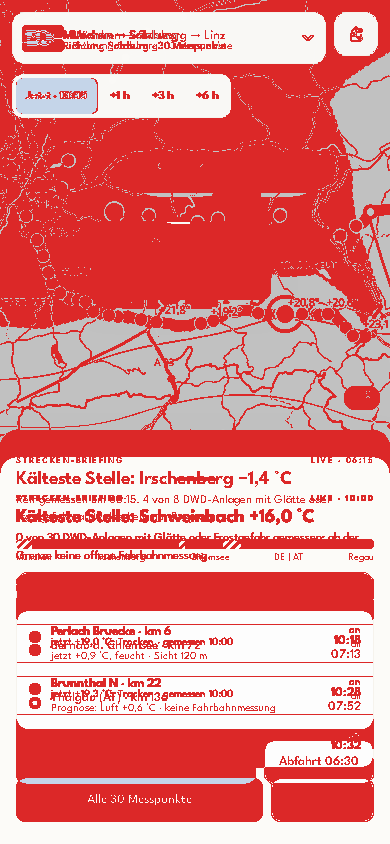
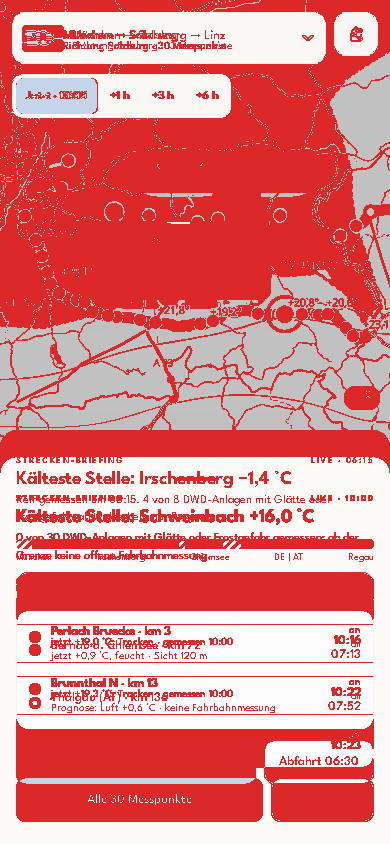
docs(road): shadow run, review fix pass, corrected default-station note, E-AW-16 (AW-3..AW-5)

diff --git a/CLAUDE.md b/CLAUDE.md
@@ -37,7 +37,7 @@ Daten-Repo (307 MiB, kein Platz).
 | **Phase AX — Ausbau nach dem Expertenbericht** (offene Punkte nacheinander; Auftrag 30.09.) | **AX-1…AX-11 gebaut und von Jan committed/gepusht (`a02f2b5`, 30.09.), AX-12 = Messung heute gegen 5e (uncommitted), Gates grün; seit Jans Freigabe 30.09. (Daten-Repo + Jobs) liegen Cron-Vorlage + README (`7115d708`, Leerlauf-Schutz korrigiert `d058317c`) und das Klimagitter (`3869297b`) im Daten-Repo; mit dem Push von `main` baut der Punkt-Cron ab dem nächsten Slot Schema 6, MOSMIX-S und die Stationsebenen (§28)** | `audit/fusion-ausbau.md` (§0 Tabelle je AP, V-AX-1…7, E-AX-1…6). **AX-1** (V-FS-15): die Messungs-Abrufer lieferten nie die nächsten Stationen (BrightSky-Sondenraster, TAWES `slice(0, 200)`, SMN jede k-te) — an 8 Stadtpunkten kam 0 Messung ≤ 5 km an, jetzt 4 (Rest strukturell); `near` in den Adaptern, BrightSky nach WMO-Kennung, Live-Pfad byte-gleich, Browser-Beleg München. **AX-2:** `learnedRoute` (E-FV-3) am Archiv **schlechter** (stationslos T −11 %!, Wind −17 %!) ⇒ Route 1 bleibt; Altersnotizen der Tabellen (V-EX-6, `tableAge.ts`). **AX-3:** T zwischen den nativen Schritten als Anomalie gegen μ_c — Orakel 6-h-Schritte MAE 1,12 → 0,95 K (−15,5 %), 3-h −4,1 %, Td/Böe ohne Gewinn ⇒ nur T, **in der Stufe fs** (E-AX-3). **AX-4:** Bewölkung als Zwei-Atome-Mischung `cloudMix` (Atome logistisch gelernt, `fitAtoms.ts`, Codec **Version 3**): out of fold CRPS +5,7 %* (0–6 h +10,7 %*), MAE −9 %, PIT-Rand 0,28 → 0,195, Atome kalibriert — Tabelle `fit\2026-09-30-ax4\fusion.ax4.json`, Einbau = E-AX-4/5. **AX-5:** Stationswert mit Parametern je Land (`ws\|3\|S\|CH`, Kandidat `stack-cc`, H15 vorab eingefroren) — **H15 GILT:** CH Wind 7–120 h +1,3…+3,7 %*, Böe +3,2…+7,0 %*, nirgends schlechter, die CH-Lücke gegen MOSMIX schließt sich; Tabelle `fit\2026-09-30-ax5\stack.archive.json` = E-AX-7. **AX-6:** ENS-Mittel roh bei 126–336 h gegen Einzellauf T +14/+23 %, Wind +13/+16 %, Böe +10/+12 %; gegen das Mittel zweier Läufe bei T erst ab 246 h; bei 246–336 h gleichauf mit der Klimatologie ⇒ Gewinn vor allem Wind/Böe (E-AX-6, Producer). **AX-7:** Cube-**Schema 6** (61 Ebenen: `t2m/u10/v10/precip_ens` = Member-Mittel aus denselben ENS-Bytes; Leser liest 5 und 6, Übergang mit echtem Schema-5-Chunk geprüft), Client-Option `ensMember` (aus, σ = 1,5·σ_ens set); lokaler Producer-Lauf gegen den echten 00z-Lauf: Ebenen an der Rasterstunde 144, Abstand zum HRES 0,3–1,7 K (§6a.3). **AX-8:** MOSMIX-S als zweites Stationsprodukt `point/stations-s/` (stündlich, Lauf + 39…41 min gemessen, dieselben 3 071 Stationen, alle zehn Größen), Aufbewahrung 6 h, Index `stationsS`, Leser-Option `stationSource` (L bleibt Voreinstellung, `?st=s`), vierter Cron-Job `:50` (20 Stunden, in den t2-Stunden im t2-Job) mit Leerlauf-Schutz bis zum Push; Ende-zu-Ende lokal (§6b.3) = E-AX-8. **AX-9:** Klimagitter `point/static/clima-grid/v1` (DWD CDC GK3 selbst projiziert, SPARTACUS Wert − Anomalie mit exakter Gegenprobe, MeteoSwiss LV95 — Sonne dort relativ, umgerechnet; 208 Chunks 1,87 MiB, 53 % der Zellen), `CubeIo.climaGrid` (`?cg=1`) ersetzt das Tagesmittel T des Priors mit Lapse gegen `elev_src`; Messung an 14 762 Punkt-Monaten: Alpen −28 %, CH −16 %, DE-Flachland +10 %; **beide Prioren ≈ 1,2 K zu kalt (V-AX-10)** ⇒ `climaTrend` (0,45 K/Dekade, set): Gitter 1,57 → **1,22 K** (§6c.3) = E-AX-9. **AX-10:** INCA-Analyse (GeoSphere, 1 km, stündlich, Latenz ≈ 1–1,5 h) als Anker-„Messung“ in AT mit Gewicht 0,6 (set; `CubeObs.weight`, `CubeIo.incaAnchor`, `?inca=1`) — gebaut, ohne Archiv nicht messbar = E-AX-10. **AX-11:** Globalstrahlung, Sonnenscheindauer, Sichtweite als drei Ebenen hinter den 61 Cube-Ebenen im Stationsprodukt (MOSMIX `Rad1h`/`SunD1`/`VV`, S und L; Leser unverändert, das Manifest nennt die Liste; München 342 W/m², 60 min, 51 km). **V-AX-12:** der erste Leerlauf-Schutz traf den Teilstring `mosmix_stationskatalog` — der Lauf 14:03 UTC baute MOSMIX-L einmal neu (byte-gleich), behoben mit dem Marker `POINT_STATIONS_SOURCE`. **AX-12 (Messung heute gegen Fit 5e, Archiv 16.–28.09., 365 513 Zeilen, 13 Ausgabetage, 389 Stationspunkte, §6g):** Modus S (Punkt = Station) MAE **22 von 36 Zellen signifikant besser, 0 schlechter** (T +17…+29 %*, Td +10…+22 %*, Wind +20…+27 %*, Böe +16…+28 %*, Bewölkung +11…+18 %*, PIT-Rand 0,62–0,75 → 0,28–0,33; Niederschlag unverändert); gegen MOSMIX T +3…+14 %*, Td +13…+19 %*, Wind/Böe 0–6 h +6/+10 %* sonst gleichauf, **CH Wind/Böe −2…−10 %! (E-AX-7 offen)**; stationslos (Modus L) 15 besser / 2 schlechter — Wind 0–6 h −1,2 %!, 126–240 h −4,1 %!, 0–120 h unter der Lernstufe allein (V-AX-13, E-AX-11); V-AX-4 behoben (Archiv-Schema 3 lesbar, `--slotsFrom`). **Schaltkandidaten am Archiv (§6g.5):** Wolkenatome (AX-4) Bewölkung CRPS +6…+10 %*, PIT-Rand 0,3 → 0,2, K7 bestanden ⇒ BESSER; Landesparameter (E-AX-7) Wind/Böe +2…+3 %*, CH gegen MOSMIX von −2…−10 %! auf −0,6…−1,1 % (n.s.), Td −0,1…−1,0 % (V-AX-15 ⇒ ohne Td-Landeseinträge); zusammen gegen 5e 23 / 0 / 13 — **mit Jans Go am 30.09. 18:25 UTC eingespielt (Daten-Repo `1aaec969`, gepurgt, CDN geprüft) = „buscosun Fusion 6"** (Bezeichnung, s. Sprache & Konventionen). **E-AX-11 (§6h, Wind ohne Station):** zwei Motor-Optionen gebaut (aus) und am Archiv gemessen — der Klimatologie-Schritt für Wind/Böe ist SCHLECHTER (Böe 0–120 h −3,5…−5,7 %!, DE-Wind bis −11 %!, aber AT/CH +3…+15 %* und 126–240 h +4,7 %* ⇒ V-AX-17: Defizit im gelernten Windmember, Fit-Seite), der über die Distanz gedämpfte Wind-Anker (`anchorWindKm: 10`) ist GLEICHSTAND (nirgends schlechter, 0–6 h Böe +0,6 %*, Wind +0,5 %) ⇒ Empfehlung in die Stufe fs mit dem nächsten Push (= buscosun Fusion 7), E-AX-13 später. Gates: `verify:pv-cube` **398/398** (Blöcke 30–38; (35) an echten Schema-5/6-Chunks des Klons, Leerlauf), `verify:point-data` **1018/1018** (vier Cron-Jobs, Regeln A–F nachgerechnet), `verify:point-client` **171/171**, `verify:fusion-fit` **125/125** (16i), `verify:pv-fusion` **235/235** (neu gezählt nach E-AX-11 — die frühere 249 war die Build-Zahl, BW-1), Build 249/249, `npm run budget` grün (totalJs 1508,6 / **1510** mit Notiz angehoben, eagerJs 108,6 unverändert), typecheck 0. Fallen: Archiv seit 29.09. Schema 3 (V-AX-4, `--slotsTo`), Truth-Sentinel −32768, HCV1-Header ohne `dtype`. **01.10. (uncommitted, §6i/§6j):** „buscosun Fusion 7“ (= 6 + `anchorWindKm: 10` + Klimagitter) gegen Fusion 6 am Archiv 16.–30.09. (405 810 Zeilen) — nach vorab eingefrorener Regel BESSER (4/0), aber nur Wind/Böe 0–6 h ohne Station +0,5/+0,6 %*; das Klimagitter bewegt 0 Zellen (V-AX-19 ⇒ nicht einschalten); Archiv-**Schema 4** gebaut (`stationsS` MOSMIX-S-Reihe, `incaAnalysis`), wirksam nach dem Push vor 23:10 UTC; der Slot 30.09. ist der erste mit Schema-6-ENS-Ebenen ⇒ `ensMember` messbar ab ≈ 06.–14.10. Gates `verify:fusion-fit` 125/125, `verify:punktarchiv` 126/126; Jans Gates §30. **E-AX-14 umgesetzt (Jan 01.10.: „ja mach das, nenn es buscosun Fusion 7“): `anchorWindKm: 10` ist Teil der Stufe fs (`FUSION7_ANCHOR_WIND_KM`, `cubeSource.ts`), Verifier (29) erweitert — Definition s. Sprache & Konventionen; Commit/Push = Jans Gate.** **02.10. (uncommitted, §6k–§6l):** Fusion 7 ist deployt (`751bee2`); erster Schema-4-Slot da, INCA nur an 40/84 AT-Punkten — GeoSphere-Rate-Limit 5/s (V-AX-20) ⇒ Sammler bündelt (`fetchIncaAnalysisObsBatch`, live 84/84); Scorer mit Niederschlagszellen (Brier/Reliability/POD-FAR); **„buscosun Fusion 8" = 7 + nachkalibrierte Regenwahrscheinlichkeit: GLEICHSTAND (0/0 von 24, K12/K13 rot) ⇒ nicht eingeschaltet**, Option `precipCal` gebaut und aus; V-AX-23 Radar-Stundenmittel (POD 0,37 → 0,49) als nächster Kandidat — **gebaut (Option `nowcastHourMean`, aus; Extractor F8r, Scorer-Zellen Radarstunden) und gemessen (§6l.4/§6l.5, Regel vorab): GLEICHSTAND 1 / 0 von 4 primär (L Brier +11 %*, S +9 % p 0,055, DE POD 0,33 → 0,52), K11/K14/K16 grün ⇒ nicht eingeschaltet, Wiederholung ≥ 30 Tage; V-AX-24: der Live-Pfad holt je Stunde einen Frame ⇒ E-AX-16 (Spiegel-Produkt gegen Client-Frames) — **umgesetzt (§6m, Jan 02.10. „sofort, über buscosun-data"): der Derive schreibt je RV-Slot ein RGB-Summenbild `m<lead>.png` je voller Stunde (exakt: am Live-Slot |Δ| 0 an 626 Vergleichen, Frames byte-gleich, Browser-Dekoder byte-gleich), der Leser holt es hinter `nowcastHourMean`/`?hm=1` (aus) und der Motor nimmt es vorgemittelt (`hourMean.mirror`); Daten-Repo unverändert, wirksam nach Jans Push + nächstem Spiegel-Job. Karte auf allen Slots bis 01.10. (15 Ausgabetage, Zwischenstand, nicht die Wiederholung): nach §6l.4 BESSER 2 / 0 von 4 primär (S Brier +9,8 %*, L +11,8 %*), Kontext 2 / 0, K11/K14 grün, DE POD 0,33 → 0,52 — ein Regentag mehr hob p 0,055 auf 0,021 ⇒ **E-AX-17 entschieden (Jan 02.10. 22:30 UTC): eingeschaltet, Stand = „buscosun Fusion 8" (`FUSION8_NOWCAST_HOUR_MEAN`, Browser liest das Produkt standardmäßig, `?hm=0` = Fusion 7; bis zum ersten Spiegel-Job mit `m<lead>.png` rechnet der Client exakt Fusion 7).** Gates `verify:fusion-fit` 131/131, `verify:pv-cube` 415/415 (Blöcke 40/41), `verify:radar-repack` 55/55, `verify:point-data` 1022/1022, `verify:punktarchiv` 127/127, totalJs 1 517,5 / 1 518; Jans Gates §32. |
 | **Phase KF — Konfidenz-Score von buscosun Fusion 6** (Jan 30.09. abends: „zeigt tendenziell immer sehr geringe an") | **Diagnose fertig; E-KF-2…4 von Jan freigegeben und umgesetzt (uncommitted, §8), Gates grün; offen E-KF-1/5, Bezeichnung des neuen Stands (§29)** | `audit/fusion-konfidenz.md` (§0 Kurzfassung, V-KF-1…8, E-KF-1…5; Belege `fusion-konfidenz/cdn-probe.md`, `monotonie.md`). Beobachtung bestätigt: am Archiv (7 Ausgabetage 16.–28.09., 389 Punkte, Kette der Stufe fs mit den Fusion-6-Tabellen, ≈ 172 000 Zeilen je Größe) T-Score im Median 36–40 % an Tag 1–2, 32 % Tag 3–5, **0 %** ab Tag 6; 99–100 % aller Stunden unter „solide" (0,7); Bewölkung **immer 0**. Der Score ordnet den Fehler trotzdem (T-Dezile monoton, CRPS 1,34 → 0,52 K, ρ −0,32) — er ist falsch skaliert: **V-KF-1** Einigkeit bei σ-Art `learned` rechnet 1 − σ_div²/σ_learned² (`parts.div` bleibt, σ wird ersetzt, seit FL-AP5) ⇒ 13 % der T/Td-Stunden Einigkeit 0; **V-KF-2** Bewölkungs-Schärfe aus der Mischungs-σ (33–83 % gegen σ_clima 34) ≡ 0; **V-KF-3** Lage-Abschläge deckeln dauerhaft (AT 48 %, CH 59 % der Stunden) und sind gegen den Fehler unkorreliert (ρ +0,02); **V-KF-4** Produkt dreier Faktoren (fehlerfreie Vorhersage ⇒ ≈ 0,5); **V-KF-5** Schwellen 0,9/0,7/0,5 aus der Dashboard-Vorlage, nie an die Verteilung gebunden — der AP9-Schritt „Dezile gegen CRPS" fehlte seit AP6. Bester Fehlerprädiktor ist die Schärfe allein (ρ T −0,44, Td −0,55, Böe −0,40); Einigkeit misst nur bei der Bewölkung (−0,34 … −0,55). Vorschlag: Score als kalibrierte Schärfe je Größe, Einigkeit nur wo sie misst, Lage als Hinweis statt Faktor, Wörter aus gemessenen Fehler-Quintilen (E-KF-1/3); vorab minimal V-KF-1/2 beheben (E-KF-2). Skript `conf-monotonie.mjs` (≈ 2 min, nur lesend) = Anfang von V-KF-7. **Umgesetzt (§8):** E-KF-2 `MemberSigma.raw` (Einigkeit gegen die PAP-6-σ) + `cloudMixSharpness`/`ConfidenceInput.spread` (Bewölkung: größte Atommasse) — nachgemessen: Einigkeit = 0 von 13 % auf 0 %, Bewölkung Median-Score 0 → 20–23 %, ρ −0,26 → −0,48, Dezile 5 → 0 Verletzungen; T/Td unverändert gut, Wind trennt kaum (V-KF-10). E-KF-3 Modul `fusion/confidenceClasses.ts` (importfrei; fünf Wörter aus Score-Perzentilen P20/40/60/80 je Größe am Archiv nach E-KF-2, `classes.json`, Provenienz `archive`, T 15/29/38/46 %, typischer Fehler je Klasse 1,75 → 0,81 K), gelesen von Dashboard-Regeln, Panel-Legende, Bandbreite-Tab. E-KF-4 Kachel „‹Wort› · typisch ±x °C" (Index im Tooltip), Zeitraumkopf und Tageskarten mit Wort. Gates: `verify:dashboard` 80/80, `verify:pv-cube` 397/398 (35 = Klon trägt nur Schema-6-Chunks, V-KF-9, unabhängig), `verify:pv-fusion` 235/235, `verify:point-client` 171/171, Build 249/249, totalJs 1512,7 / **1514**, eagerJs 108,6; Browser München: „mäßig · typisch ±1,0 °C", Konsole sauber. Der Stand ist damit nicht mehr „buscosun Fusion 6" (Kette in `confidence` geändert) — Bezeichnung = Jans Gate. |
 | **Phase RK + NL — Ruckler der Karte, Niederschlag lädt lange** (Jans Befunde 01.10.) | **RK-1 und NL-1/NL-2 umgesetzt (uncommitted), Gates grün; Commit/Push = Jans Gate (§31)** | `audit/karte-ruckler.md`, `audit/niederschlag-ladezeit.md`. **RK:** jede Kartenansicht stand 2–7 s nach dem Aufruf **2,0–2,25 s** still (CPU 4×: 7,7 s) — `buildDemImage` rechnete das Höhenbild der Temperatur (7,2 Mio. Abtastungen) in einem Hauptthread-Block; neu `src/sources/demGrid.ts` (Kachel-Koordinaten je Spalte/Zeile vorab, Array-Index, Zeitscheiben 8 ms) + `loadElevationTiles` (nur ergänzt, Rasterfusion wortgleich zu HEAD), Höhenbild **byte-gleich** (auch auf 90 echten Kacheln), größte Frame-Lücke danach 33–50 ms (CPU 4×: 100 ms). **NL:** 3 von 11 kalten Aufrufen ≥ 10 s (bis > 30 s): Router-Frühstart ohne Frist, Bild-Weg alles-oder-nichts gegen kaltes jsDelivr (Hänger, 403), Rückfall = HDF5-Tar 9,6 MB; neu Ausweichweg `raw.githubusercontent.com` je Radarbild in `fetchImgRes` (Hedge 2,5 s, 403/5xx/Netz, 404 bleibt 404, Schalter `?radarraw=0`, Muster V-FI-5) + Frist auch für vorgestartete Abrufe; nachher 0 von 11 ≥ 10 s. E-NL-1 (voriger Slot zuerst) = nein. Gates: `verify:dem-build` **21/21**, `verify:radar-fallback` **22/22** (je rot vor der Umsetzung), `verify:radar-runs` 55/55, `verify:radar-repack` 48/48, `verify:layer-erstbild` 38/38, `verify:share` 528/528, `verify:repack` 347/347, `verify:dashboard` 80/80, typecheck 0, Build 249/249, Budget grün (eagerJs 108,6 / 108,7, totalJs 1 514,3 / **1 516**). Offen: E-RK-2 (Höhenbild vorrechnen), E-NL-2 (Warm-up im Spiegel), V-RK-1/2, V-NL-1…5, Real-Device |
-| **Phase AW — Autobahnwetter** (Fahrbahn gemessen DE, AT/CH später als Prognose; Auftrag 03.10.) | **AW-0…AW-3 auf `main` (`a2bb63a`, `691113c`), Daten-Repo `cb20f86`/`bef7411`/`e9ef1f0`, Schattenbetrieb im Radar-Spiegel; AW-4/AW-5 auf Zweig `feat/autobahnwetter` hinter `?road=1` (Flag aus), Gates grün bis auf `verify:share` SH6 = Edge-Bündel (Jans Gate E-AW-14); AW-6 nicht begonnen** | `audit/autobahnwetter.md` (§0 Kurzfassung, §2 Spike + Gate A, §3 Vertrag, §4 Producer/Spiegel/Wächter, §5 Schattenbetrieb, §6 Seite + Abweichungen, V-AW-1…15, E-AW-1…15). DWD-Glättemeldeanlagen (SWIS) als **BUFR mit eigenem Decoder** (`src/road/swisBufr.ts`, drei Layouts, gegen eccodes 78 670 Werte/0 Abweichungen), Vertrag `src/road/roadContract.ts` (Ablage `road/v1/`: `obs/` 3 h, `h24/<Reihe>/<Slot>` mit Klassenspalte `k`, `quarantine/` 24 h, `status.json`, `state.json`, `static/stations.json` + `corridors.json` aus BKG DLM250), harte Regeln ab Tag 1 (inkl. **E-AW-11** Eis-Code nur ≤ +3 °C mit gültiger Fahrbahn), statistische im Beobachtungsmodus bis ≥ 14 Tage; Slot-Sperre (≥ 20 Reihen, ≤ 10 % verworfen, Rundweg). Replay 48 h: hart verworfen p50 1,5 % / max 2,9 %. Ingest = Produkt des Radar-Spiegels (E-AW-1, `scripts/road/road-mirror.mjs`, HEAD auf den erwarteten Slot-Pfad, Frist Slot + 12 min, 24 h nachholen), Wächter R1–R4 in `health-manifests.mjs`. Seite: Kachel 11, Route `/autobahnwetter` (noindex bis Gate C), Deck nach `reference/autobahnwetter-*.dc.html` (Pixel-Diff Desktop 32,8 % / Mobil 50,1 %, jede Abweichung benannt). Gates: `verify:road-decode` 15/15, `verify:road-contract` 59/59, `verify:road-derive` 27/27, `verify:road-ui` 26/26, `verify:health` 33/33, Build 252/252, Budget eagerJs 108,9 / **109,0**, totalJs 1 538,9 / **1 540**. **Jans Gates `MANUELLE-SCHRITTE.md` §33:** E-AW-14 Edge-Bündel, Gate B nach 7 Tagen Schatten, Kalibrierung ≥ 14 Tage, Gate C Flag an, E-AW-13/15, Archiv-Freigabe AW-6 |
+| **Phase AW — Autobahnwetter** (Fahrbahn gemessen DE, AT/CH später als Prognose; Auftrag 03.10.) | **AW-0…AW-3 auf `main` (`a2bb63a`, `691113c`, `2687a61`, `45f12dd`, `ef6d7af`), Daten-Repo `cb20f86`/`bef7411`/`e9ef1f0`/`0e801f2`, Schattenbetrieb im Radar-Spiegel seit 03.10. 12:47 UTC (erster Live-Slot nach 235 s im Daten-Repo); AW-4/AW-5 auf Zweig `feat/autobahnwetter` hinter `?road=1` (Flag aus), Gates grün bis auf `verify:share` SH6 = Edge-Bündel (Jans Gate E-AW-14); Gesamtprüfung: 9 wichtige Befunde behoben; AW-6 nicht begonnen** | `audit/autobahnwetter.md` (§0 Kurzfassung, §2 Spike + Gate A, §3 Vertrag, §4 Producer/Spiegel/Wächter, §5 Schattenbetrieb, §6 Seite + Abweichungen, V-AW-1…18, E-AW-1…16). DWD-Glättemeldeanlagen (SWIS) als **BUFR mit eigenem Decoder** (`src/road/swisBufr.ts`, drei Layouts, gegen eccodes 78 670 Werte/0 Abweichungen), Vertrag `src/road/roadContract.ts` (Ablage `road/v1/`: `obs/` 3 h, `h24/<Reihe>/<Slot>` mit Klassenspalte `k`, `quarantine/` 24 h, `status.json`, `state.json`, `static/stations.json` + `corridors.json` aus BKG DLM250), harte Regeln ab Tag 1 (inkl. **E-AW-11** Eis-Code nur ≤ +3 °C mit gültiger Fahrbahn), statistische im Beobachtungsmodus bis ≥ 14 Tage; Slot-Sperre (≥ 20 Reihen, ≤ 10 % verworfen, Rundweg). Replay 48 h: hart verworfen p50 1,5 % / max 2,9 %. Ingest = Produkt des Radar-Spiegels (E-AW-1, `scripts/road/road-mirror.mjs`, HEAD auf den erwarteten Slot-Pfad, Frist Slot + 12 min, 24 h nachholen), Wächter R1–R4 in `health-manifests.mjs`. Seite: Kachel 11, Route `/autobahnwetter` (noindex bis Gate C), Deck nach `reference/autobahnwetter-*.dc.html` (Pixel-Diff Desktop 33,2 % / Mobil 50,1 %, jede Abweichung benannt). Gates: `verify:road-decode` 15/15, `verify:road-contract` 64/64, `verify:road-derive` 31/31, `verify:road-ui` 36/36, `verify:health` 38/38, Build 252/252, Budget eagerJs 108,9 / **109,0**, totalJs 1 539,3 / **1 540**. Nebenbefund: `health.yml` seit September bei jedem Lauf rot (`latest-grib.json`, E-AW-16). **Jans Gates `MANUELLE-SCHRITTE.md` §33:** E-AW-14 Edge-Bündel, E-AW-16 Wächter, Gate B nach 7 Tagen Schatten, Kalibrierung ≥ 14 Tage, Gate C Flag an, E-AW-13/15, Archiv-Freigabe AW-6 |
 
 **Jans Gates (`MANUELLE-SCHRITTE.md` §15/§16):** Push von `buscosun-web/main` mit AP1 + PA2 + AP12a + **PA3 +
 E-F-11/12** als Commit 1 **vor 23:10 UTC** (der Archiv-Cron klont `main` täglich 23:10 UTC; der Punkt-Cron fährt danach
@@ -219,7 +219,7 @@ Rückzüge mit Jans Freigabe): Feuerwetter/`fireSpread`-Rasterfläche, `fireWind
 |---|---|
 | `audit/fusion-konfidenz.md` (+ `fusion-konfidenz/`) | **KF:** Konfidenz-Score von buscosun Fusion 6 — Formel, Sonde am CDN, Score-Dezile gegen CRPS am Archiv (Monotonie), V-KF-1…8, E-KF-1…5 |
 | `audit/geosphere-v2.md` | **GS:** GeoSphere `nwp-v1` → `nwp-v2` (C-LAEF 1 km) im Live-Pfad und in der Rasterfusion — Zuordnung der Größen, Quell-Tag `claef`, Schalter `?nwp=v1`, E-GS-1…3, V-GS-1…3 |
-| `audit/autobahnwetter.md` (+ `autobahnwetter/`) | **AW:** Autobahnwetter — Spike (SWIS-BUFR, Codetabelle, Ankunft, Replay der Regeln), Vertrag `road/v1`, Producer im Radar-Spiegel, Wächter, Korridore DLM250, Seite hinter `?road=1` mit Pixel-Diff gegen die Vorlage, E-AW-1…15, V-AW-1…15 |
+| `audit/autobahnwetter.md` (+ `autobahnwetter/`) | **AW:** Autobahnwetter — Spike (SWIS-BUFR, Codetabelle, Ankunft, Replay der Regeln), Vertrag `road/v1`, Producer im Radar-Spiegel, Wächter, Korridore DLM250, Seite hinter `?road=1` mit Pixel-Diff gegen die Vorlage, E-AW-1…16, V-AW-1…18, Gesamtprüfung §10 |
 | `audit/fusion-expertenbericht-2026-09-29.md` | **EX:** Prüfung des Expertenberichts vom 29.09. (21 Vorschläge, Fristen), Cron-Gate und Terminregister, Radar RV aus ODIM-HDF5, Scorer-Korrekturen, Messung Windfamilie am Stationswert, V-EX-1…13, E-EX-1…8 |
 | `audit/dashboard.md` | **DB:** Wetter-Dashboard neben der Wetterkarte — Inventar der Vorlagen, Parameterliste P01–P88, Abdeckungsmatrix (Fusion / `buscosun-data` / buscosun-web / nicht verfügbar), Architektur (URL-Zustand, Lazy-Chunk, Kartenpause), Vorlagen-Lücken, E-DB-1…20, V-DB-1…15; §10 Umsetzung mit Pixel-Diff (`dashboard/pixel/`), Zuständen ohne Vorlage (`dashboard/states/`), Latenz und Gates |
 | `audit/fusion-stationswert.md` (+ `fusion-stationswert/`) | **FS:** Stationswert gegen MOSMIX — Diagnose der Kette (Gewichte, doppelte Korrektur, doppelte Schrumpfung), eingefrorene Behauptungen D1/D2/H9–H14/E1–E4, Archiv-Karten Modus S und L, vier Motor-Optionen, V-FS-1…11, E-FS-1…6 |

diff --git a/MANUELLE-SCHRITTE.md b/MANUELLE-SCHRITTE.md
@@ -1283,30 +1283,35 @@ Auftrag Jan 03.10. (Kickoff AW-0…AW-5, AW-6 nicht). Befunde, Belege und Messwe
 
 **Stand:**
 - **Auf `main` von buscosun-web (gepusht, für Nutzer unsichtbar):** `a2bb63a` Datenlinie (Decoder, Vertrag, Ableitung, Spiegel-Haken,
-  Katalog, Korridor-Bauer, README-Vorlage, drei Verifier) und `691113c` Klassenspalte im 24-h-Ring + Exportform (E-AW-6, nur vorbereitet).
+  Katalog, Korridor-Bauer, README-Vorlage, drei Verifier), `691113c` Klassenspalte im 24-h-Ring + Exportform (E-AW-6, nur vorbereitet),
+  `2687a61` Wächter R1–R4, `45f12dd` + `ef6d7af` Fixes der Gesamtprüfung (DWD-Zeitlimits im Spiegel, Status über die Job-Naht, Wächter
+  R2/R3/R5, Korridor-Achsen ohne Schleifen) — **wirksam im Spiegel ab dem nächsten Jobstart (≈ 18:35 UTC)**.
 - **Im Daten-Repo (gepusht nach Protokoll, nie force):** `cb20f86` README-Abschnitt „Straßenwetter — road/", `scripts/radar-mirror.mjs`
-  mit drei Haken, `road/v1/static/stations.json` + `corridors.json`; `bef7411` und `e9ef1f0` Korridor-Titel. jsDelivr für die geänderten
-  `road/`-Dateien gepurgt. Workflows unverändert.
+  mit drei Haken, `road/v1/static/stations.json` + `corridors.json`; `bef7411` und `e9ef1f0` Korridor-Titel, `0e801f2` bereinigte
+  Korridor-Achsen (A 8 161,3 → 128,7 km). jsDelivr für die geänderten `road/`-Dateien gepurgt. Workflows unverändert. Nach dem
+  Force-Push der Kartenlinie (13:07 UTC) geprüft: alles noch da.
 - **Schattenbetrieb:** der Radar-Spiegel klont `main` von buscosun-web bei jedem Jobstart und schreibt seither je 15-min-Slot `road/v1/`
   (Belege der ersten Slots: Audit §5). Keine Seite liest die Daten ohne `?road=1`.
-- **Zweig `feat/autobahnwetter` (nicht auf `main`):** AW-4 (Kachel, Route, Rail, ⌘K, Aliase) und AW-5 (Seite) hinter `?road=1`, Wächter-Prüfung
-  R1–R4 — siehe (a).
+- **Zweig `feat/autobahnwetter` (nicht auf `main`, gepusht):** AW-4 (Kachel, Route, Rail, ⌘K, Aliase) und AW-5 (Seite) hinter `?road=1`
+  samt Fixes der Gesamtprüfung — siehe (a).
 
 **Deine Gates:**
 - **(a) E-AW-14 — Edge-Bündel `og-meta`:** `git apply audit/autobahnwetter/og-meta-bundle.patch` oder gleichwertig `npm run edge:share` auf dem
   Zweig (nur der neue Routeneintrag im erzeugten
   `netlify/edge-shared/shareParser.js`; `og-meta` läuft nur auf den neun teilbaren Pfaden ⇒ keine Laufzeitwirkung). Danach `verify:share`
   528/528 und der Zweig kann nach `main` (Flag aus, unsichtbar). Ohne (a) bleibt der Zweig liegen, weil die CI `verify:share` fährt.
-- **(b) Wächter:** mit dem Merge prüft `health.yml` stündlich `road/v1/status.json` (Lebenszeichen ≤ 45 min, freigegebener Slot ≤ 3 h) und
-  mailt bei Rot wie bei den Warm-Manifesten. Wer im Schattenbetrieb keine Mails will: in `.github/workflows/health.yml` beim Schritt
-  „Warm-Manifeste in Produktion prüfen" unter `env:` die Zeile `ROAD_HEALTH: '0'` ergänzen (Workflow-Datei = dein Gate, nicht angefasst).
+- **(b) E-AW-16 — Wächter:** `health.yml` prüft seit `2687a61` stündlich auch das Straßenwetter (R1–R5). **Aber:** der Workflow ist seit
+  September bei **jedem** Lauf rot, weil `latest-grib.json` seit dem Rückzug der Warm-Crons nicht mehr fortgeschrieben wird (H2/H3,
+  ≈ 700 h alt) — so meldet er keinen echten Ausfall. Vorschlag: die H-Prüfungen für `latest-grib.json` entfernen oder auf den Index-Weg
+  umstellen (Workflow-/Wächter-Änderung, dein Ja). Straßenteil abschalten, falls gewünscht: `ROAD_HEALTH: '0'` unter `env:` des Schritts.
 - **(c) Gate B nach 7 Tagen Schatten (≈ 10.10.):** Anteil freigegebener Slots, Ankunft gegen Frist, Bilanz je Regel aus `status.json`/`quarantine/`,
   Stichproben V-AW-5/6, Push-Last (V-AW-10), Radar ohne Rückschritt (Spiegel-Takt). Vorlage: Audit §5.
 - **(d) Kalibrierung nach ≥ 14 Tagen (≈ 17.10.):** Startwerte der Beobachtungsregeln (`jump`, `neighbours`, `roadAir`, `catalog`, `cube`) aus
   der Quarantäne; entscheiden, welche hart werden.
 - **(e) Gate C — Flag an:** `ROAD_LIVE = true` in `src/road/roadFlag.ts`, Sitemap + die 20 Autobahn-Unterseiten (V-AW-8), E-AW-15 Vorschaukarte.
   Vorher Real-Device (V-AW-13): Handy mit `?road=1`, Karte, Blatt, Auswahl.
-- **(f) E-AW-13:** Voreingestellte Messstelle ohne kritische Messung — kälteste gemessene Fahrbahn (Vorschlag) oder schwerste Klasse (heute).
+- **(f) E-AW-13:** Voreingestellte Messstelle — heute die kälteste gemessene Fahrbahn; Vorschlag: kritischste Klasse zuerst (Glätte, Frost, Nässe),
+  bei Gleichstand die kälteste (eine gemessene Glätte an einer wärmeren Stelle stünde sonst dahinter).
 - **(g) AW-6 — Archiv-Freigabe:** die Exportform liegt (`scripts/road/road-export.mjs`); Archiv-Ziel (`buscosun-archiv`?), Takt und Größe
   entscheiden, dann Prognose +1/+3/+6 h mit Backtest (Gate D).
 - **(h) V-AW-4:** P758 (A 94) mit Katalog-Koordinaten reparieren — Datenänderung, nur mit deinem Ja.
